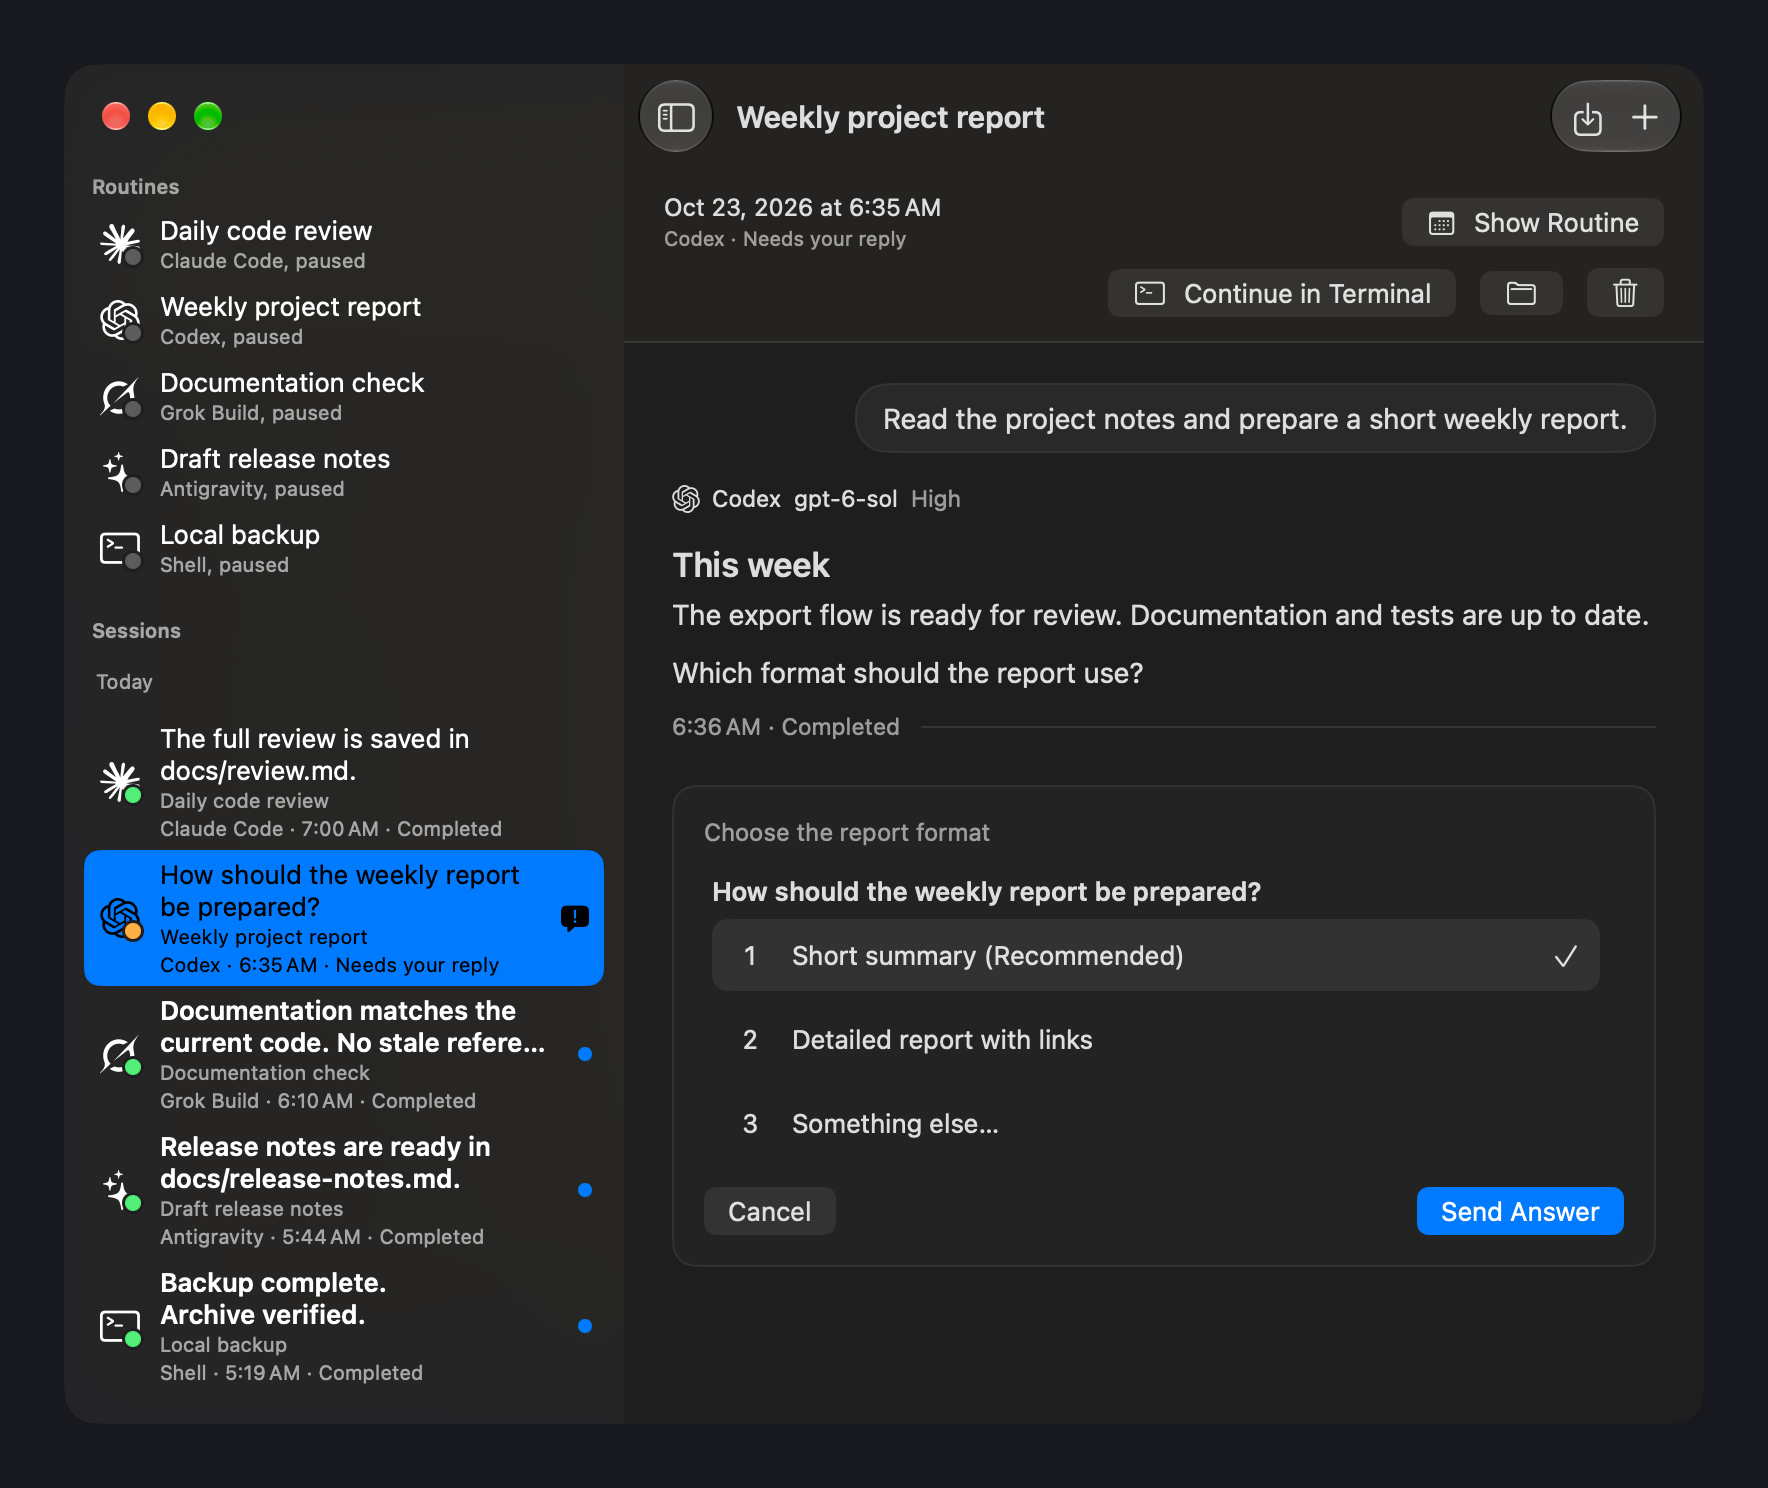
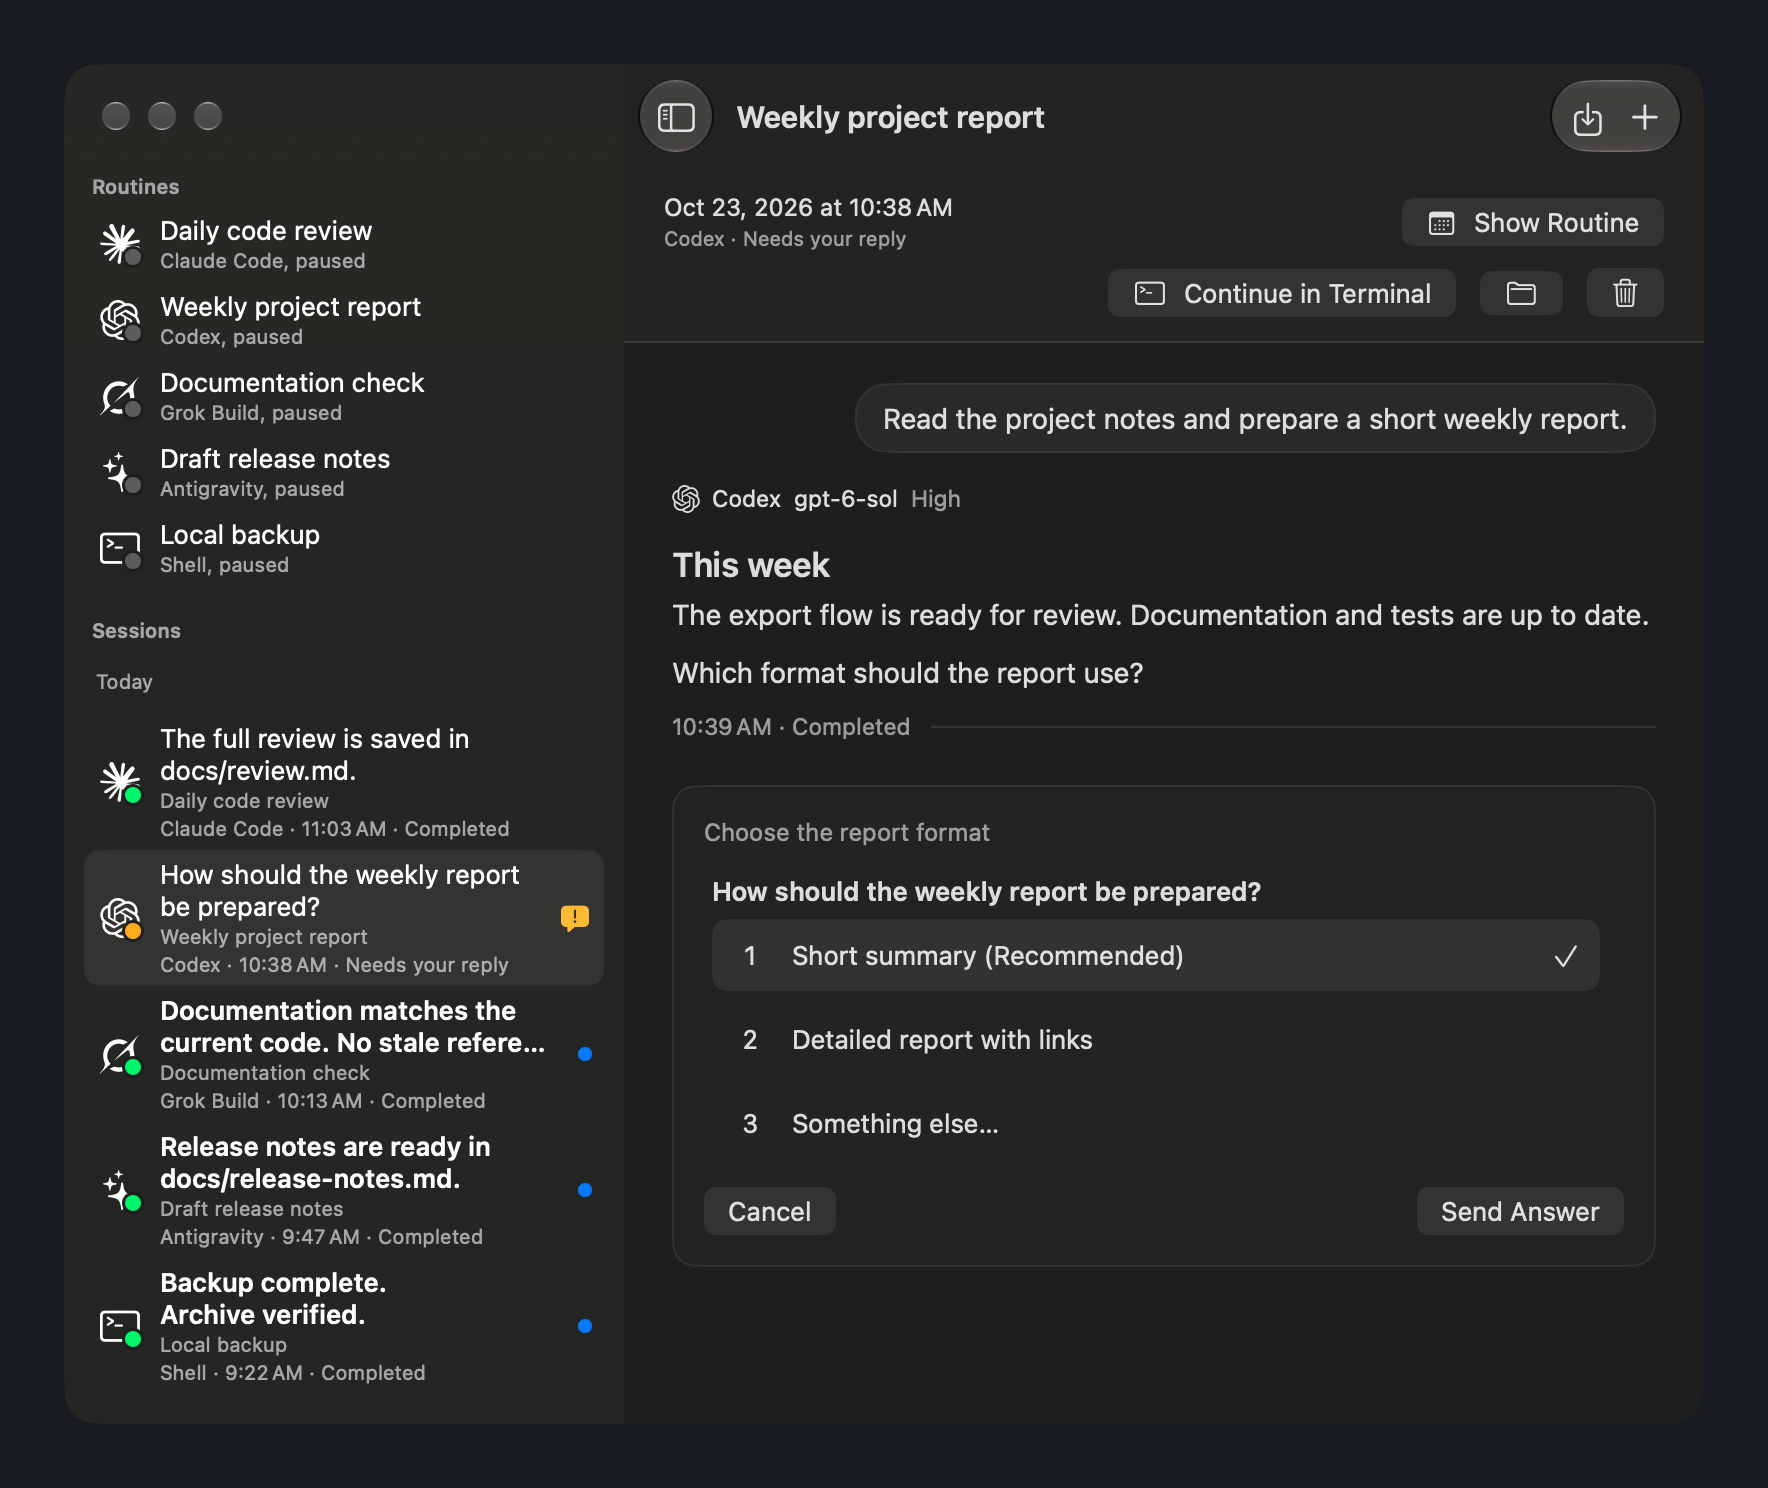
Preserve sidebar width and refresh Rota release screenshots

diff --git a/scripts/capture-window.swift b/scripts/capture-window.swift
@@ -15,11 +15,42 @@ let dark = arguments[2] == "dark"
 let color = NSColor(srgbRed: dark ? 0.09 : 0.86, green: dark ? 0.10 : 0.88,
                     blue: dark ? 0.12 : 0.91, alpha: 1)
 
+// ScreenCaptureKit's filtered composite can omit text fragments after resizing.
+// The native window capture preserves them; flatten its corners over the same backdrop.
+func captureWindow(_ id: UInt32, frame: CGRect) throws -> CGImage {
+    let file = FileManager.default.temporaryDirectory.appendingPathComponent("rota-capture-\(UUID()).png")
+    defer { try? FileManager.default.removeItem(at: file) }
+    let process = Process()
+    process.executableURL = URL(fileURLWithPath: "/usr/sbin/screencapture")
+    process.arguments = ["-o", "-x", "-l", String(id), file.path]
+    try process.run()
+    process.waitUntilExit()
+    guard process.terminationStatus == 0,
+          let source = CGImageSourceCreateWithURL(file as CFURL, nil),
+          let captured = CGImageSourceCreateImageAtIndex(source, 0, nil)
+    else { throw CocoaError(.fileReadUnknown) }
+    let scale = CGFloat(captured.width) / frame.width
+    guard abs(CGFloat(captured.height) / frame.height - scale) < 0.01 else {
+        throw CocoaError(.fileReadUnknown)
+    }
+    let margin = Int((32 * scale).rounded())
+    let width = captured.width + 2 * margin
+    let height = captured.height + 2 * margin
+    guard let context = CGContext(data: nil, width: width, height: height, bitsPerComponent: 8,
+                                  bytesPerRow: 0, space: CGColorSpace(name: CGColorSpace.sRGB)!,
+                                  bitmapInfo: CGImageAlphaInfo.premultipliedLast.rawValue)
+    else { throw CocoaError(.fileReadUnknown) }
+    context.setFillColor(color.cgColor)
+    context.fill(CGRect(x: 0, y: 0, width: width, height: height))
+    context.draw(captured, in: CGRect(x: margin, y: margin, width: captured.width, height: captured.height))
+    guard let image = context.makeImage() else { throw CocoaError(.fileReadUnknown) }
+    return image
+}
+
 Task { @MainActor in
     do {
         let initial = try await SCShareableContent.excludingDesktopWindows(false, onScreenWindowsOnly: true)
         guard let target = initial.windows.first(where: { $0.windowID == windowID }),
-              let display = initial.displays.first(where: { $0.displayID == CGMainDisplayID() }),
               let screen = NSScreen.screens.first else { throw CocoaError(.fileReadUnknown) }
         let rect = target.frame.insetBy(dx: -32, dy: -32)
         let backdrop = NSWindow(contentRect: NSRect(x: rect.minX,
@@ -33,18 +64,9 @@ Task { @MainActor in
         try await Task.sleep(for: .milliseconds(400))
         let content = try await SCShareableContent.excludingDesktopWindows(false, onScreenWindowsOnly: true)
         guard let current = content.windows.first(where: { $0.windowID == windowID }),
-              current.frame == target.frame,
-              let background = content.windows.first(where: { $0.windowID == UInt32(backdrop.windowNumber) })
+              current.frame == target.frame
         else { throw CocoaError(.fileReadUnknown) }
-        let config = SCStreamConfiguration()
-        config.sourceRect = rect
-        config.width = Int(rect.width * screen.backingScaleFactor)
-        config.height = Int(rect.height * screen.backingScaleFactor)
-        config.showsCursor = false
-        config.colorSpaceName = CGColorSpace.sRGB
-        config.backgroundColor = color.cgColor
-        let filter = SCContentFilter(display: display, including: [background, current])
-        let image = try await SCScreenshotManager.captureImage(contentFilter: filter, configuration: config)
+        let image = try captureWindow(windowID, frame: current.frame)
         let output = URL(fileURLWithPath: arguments[3])
         guard let writer = CGImageDestinationCreateWithURL(output as CFURL,
                                                            UTType.png.identifier as CFString, 1, nil)

diff --git a/Sources/Rota/MainWindow.swift b/Sources/Rota/MainWindow.swift
@@ -20,6 +20,8 @@ struct MainWindow: View {
     @Environment(AppModel.self) private var model
 
     @State private var sidebarWidth: CGFloat = 280
+    // Seed the ideal once; later measurements save the next launch's preference.
+    @State private var restoredSidebarWidth = UserDefaults.standard.object(forKey: "sidebarWidth") as? Double ?? 280
 
     private var records: [RunRecord] {
         _ = model.scheduler.historyVersion
@@ -45,10 +47,14 @@ struct MainWindow: View {
             set: { model.sidebarVisible = $0 != .detailOnly }
         )) {
             MainSidebar(records: records)
-            .onGeometryChange(for: CGFloat.self) { $0.size.width } action: { sidebarWidth = $0 }
-            // A fixed ideal: the split view applies it only at launch, so a scaled one stuck
-            // at 360 pt after zooming back to 100%, and at 150% it would overflow 820 pt.
-            .navigationSplitViewColumnWidth(min: min(metrics.points(240), 280), ideal: 280,
+            .onGeometryChange(for: CGFloat.self) { $0.size.width } action: { width in
+                sidebarWidth = width
+                if model.sidebarVisible, width >= min(metrics.points(240), 280) {
+                    UserDefaults.standard.set(Double(width), forKey: "sidebarWidth")
+                }
+            }
+            // Restore the last visible width in points; scaling the ideal makes it drift on zoom changes.
+            .navigationSplitViewColumnWidth(min: min(metrics.points(240), 280), ideal: CGFloat(restoredSidebarWidth),
                                             max: metrics.points(360))
             .overlay {
                 // The detail explains a first routine and offers both ways to add one.

diff --git a/CLAUDE.md b/CLAUDE.md
@@ -12,7 +12,7 @@ Shared rules for our macOS apps: `~/Documents/GitHub/claude-config/docs/macos-ap
 
 ## Test and lint
 
-- `scripts/capture-screenshots.sh` regenerates README images from disabled synthetic routines and conversations, in both appearances and at the minimum width. Its fixtures and ScreenCaptureKit helper live beside it; the recipe and image inventory are in `docs/screenshots/README.md`. Detailed user-facing behavior is in `docs/user-guide.md`.
+- `scripts/capture-screenshots.sh` regenerates README images from disabled synthetic routines and conversations, in both appearances and at the minimum width. Its fixtures and native capture helper live beside it; the recipe and image inventory are in `docs/screenshots/README.md`. Detailed user-facing behavior is in `docs/user-guide.md`.
 - `bash maintain.sh` is the gate. A JSON-RPC peer delivers replies on its run's queue (`callbackQueue`); a JSON value handed across queues goes in `UncheckedSendable`.
 - Seams: `Scheduler.now`, `.calendar`, `.executable`, `.notifier`, and the `RoutineLaunching` launcher (`FakeLauncher` in `SchedulerTests` drives `RunEvents` by hand). Tests never spawn an agent.
 - `ROTA_LIVE=1 swift test --filter LiveHarnessTests` runs Claude Code, Codex, Grok Build, Antigravity and Shell for real, sends a message mid-run, continues finished sessions, stops each harness, runs each agent on a chosen model and prints each log. It spends a little quota and leaves sessions behind: delete the `rota-live-*` Grok session folders, the Codex threads with a `rota-live-` cwd (their ids are in the first line of `~/.codex/sessions/<date>/rollout-*.jsonl`; delete each with `thread/delete` over `codex app-server` stdio, never in Codex's SQLite; a thread stopped moments ago answers `already has an active writer`, so retry a minute later), and the Claude transcripts under `~/.claude/projects/*rota-live*`. Antigravity-only tests match `LiveHarnessTests/testAntigravity`; MCP registration uses a disposable home, and the optional tool-use test needs the isolated setup described in `docs/architecture.md`. Run it after touching a runner, in the background with a log: one combined run hung past ten minutes once and did not again.

diff --git a/docs/screenshots/README.md b/docs/screenshots/README.md
@@ -11,13 +11,18 @@ scripts/capture-screenshots.sh
 ```
 
 The recipe builds the app, compiles the existing Accessibility driver and the
-ScreenCaptureKit capture helper, writes the fixtures into a temporary data
+native window capture helper, writes the fixtures into a temporary data
 folder, and captures light and dark appearances without changing the system
 appearance. Agent executable overrides prevent model-catalog initialization;
 normal installed-CLI discovery may still read `--version`. It restores the
 development app's defaults and quits its own app process on exit. Close an
 existing repository development build first; the
 script refuses to take it over.
+
+ScreenCaptureKit composites can omit sidebar text fragments after resizing,
+even when the native window capture contains all the text. The helper uses
+`screencapture -l` with its own opaque backdrop behind the window, then adds the
+same backdrop margin in sRGB. It never repairs or replaces interface pixels.
 
 Accessibility and Screen Recording must already be allowed for the invoking
 terminal. The shared `macaudit.py` helper provides the unlocked-session check
@@ -37,7 +42,7 @@ folder. Keep the PNGs and their recipe together when updating them.
 
 Each capture must pass the existing Accessibility layout gate at its stated
 size. The images include a 32 pt margin and use the display's backing scale.
-`capture-window.swift` composites only the target window and its opaque
+`capture-window.swift` captures only the target window over its opaque
 backdrop in sRGB, so other windows cannot leak through the glass. The capture
 helper does not paint or replace the app's interface.
 

diff --git a/docs/architecture.md b/docs/architecture.md
@@ -799,8 +799,13 @@ Layout rules learned while measuring the narrowest window (820 pt):
   content background color. Monochrome harness marks, attention symbols and
   selected-dot outlines share that foreground; the native highlight is unchanged. `backgroundProminence` did not report that fill. Section headers
   use `secondaryText` too (native measured 2.2:1).
-- The sidebar's ideal width is a fixed 280 pt. The split view applies it only when
-  the window opens, so a scaled ideal kept 360 pt after zooming back to 100%; rebuilding
+- The sidebar restores its last visible width from `sidebarWidth` in UserDefaults,
+  defaulting to 280 pt. Geometry changes save visible widths at or above the column's
+  minimum; hiding the sidebar does not replace that preference with collapsed geometry.
+  The launch ideal stays stable in view state while later geometry updates save the
+  next launch's preference.
+  The ideal stays in points rather than scaling with zoom: the split view applies it
+  when the window opens, so a scaled ideal kept 360 pt after zooming back to 100%; rebuilding
   the split view per zoom level put a 360 pt sidebar into the 820 pt window at 150%.
 - With no routines the detail is the one empty state, with Import Routines… and a
   prominent New Routine…; the sidebar only says there are none. The New Routine form

diff --git a/docs/user-guide.md b/docs/user-guide.md
@@ -178,7 +178,8 @@
   brings in previous entries without splitting those groups. See [Transcript format](transcript-format.md) for the
   storage and compatibility contract.
 - The sidebar folds away with the button beside the title, View > Hide
-  Sidebar or Control-Command-S, and stays as you left it.
+  Sidebar or Control-Command-S. Its visibility and resized width are kept across
+  launches, so the divider returns to where you left it.
 - Menus: File > New Routine… (Command-N) and Import Routines…;
   Routine > Run Now (Command-R), Stop (Command-.) and Edit Routine…
   (Command-E), acting on the selected routine or the selected session's.
